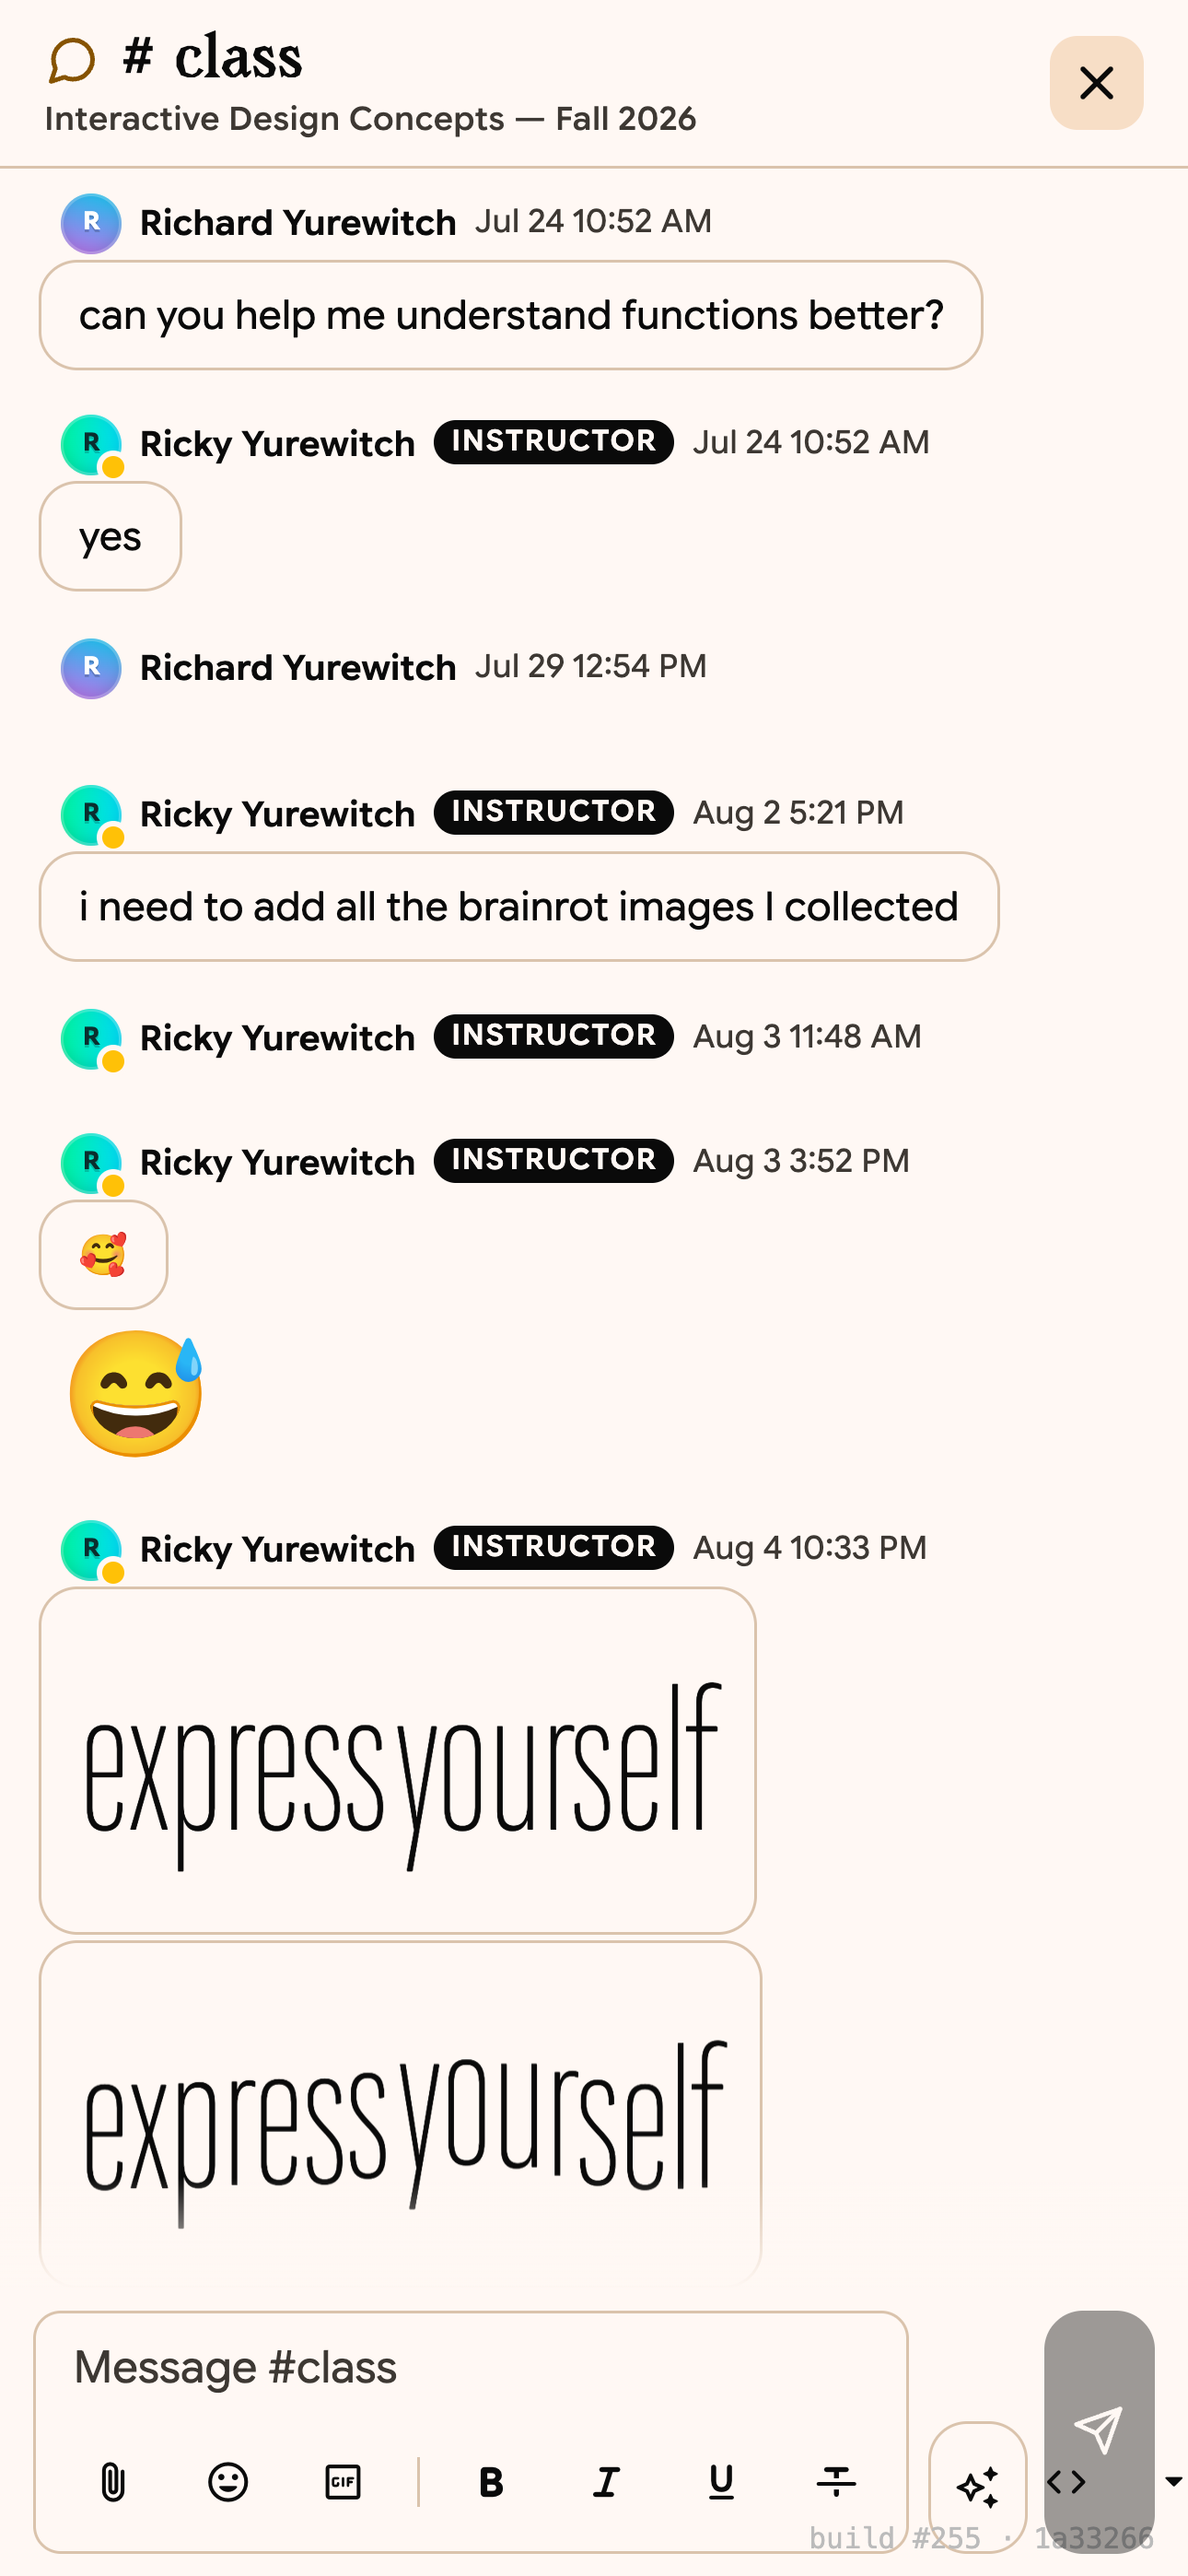
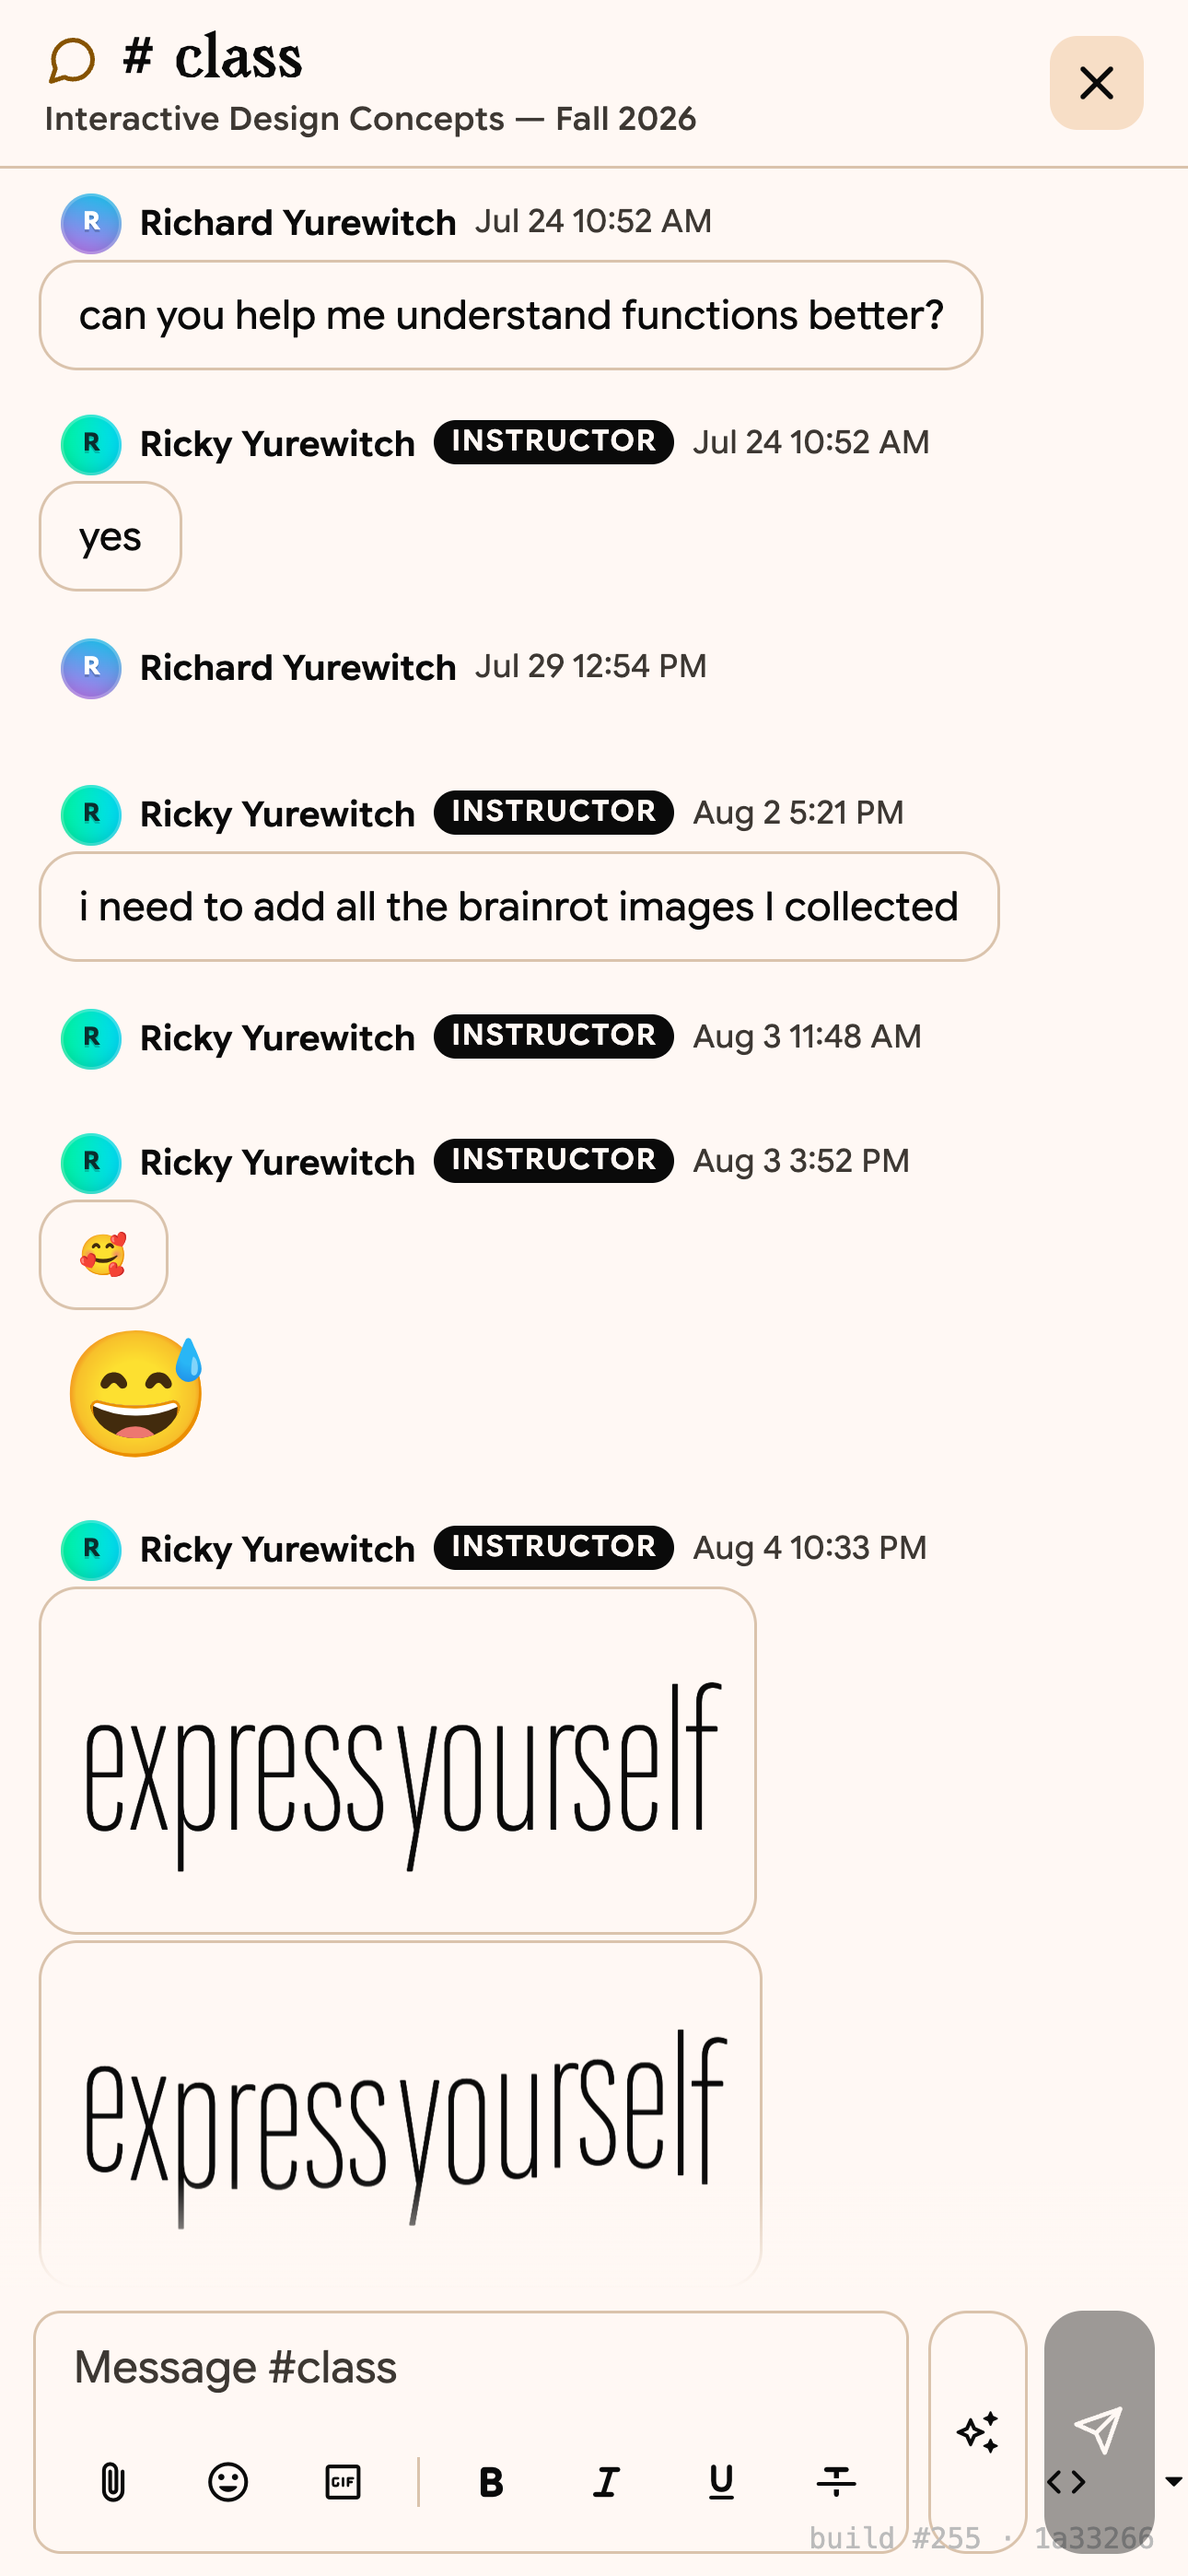
Chat effects button full-height; weeks hero spans ~95vw on mobile
- Chat compose (channel + DM): the message-effects (✨) button now stretches
  to the full compose-bar height, matching the send button
  (compose-effect-wrap align-self:stretch, btn-effect height:100%).
- Weeks: the "Where you are" hero was shrink-wrapping to ~64vw and rendering
  as a narrow centered card. Force width:100% + box-sizing on mobile and
  tighten page padding to 0.7rem so hero + lists span ~95vw.

diff --git a/src/routes/app/weeks/+page.svelte b/src/routes/app/weeks/+page.svelte
@@ -716,7 +716,8 @@
 	/* ── Responsive ───────────────────────────── */
 	@media (max-width: 800px) {
 		.weeks-page {
-			padding: calc(0.75rem + var(--header-h, 52px)) 1rem;
+			/* ~0.7rem side padding → the content spans roughly 95vw on a phone. */
+			padding: calc(0.75rem + var(--header-h, 52px)) 0.7rem;
 			padding-bottom: calc(56px + env(safe-area-inset-bottom, 0px) + 1.25rem);
 		}
 		/* Redundant on a phone — the header already says "Weeks" and the bottom
@@ -727,11 +728,16 @@
 		   rail pinned to the far-right edge and the button floated absolutely
 		   at the bottom, which left an awkward gap and read wonky.) */
 		.hero {
+			/* Fill the page width (~95vw) instead of shrink-wrapping to the CTA
+			   button — it was rendering as a narrow ~64vw centered card. */
+			width: 100%;
+			box-sizing: border-box;
 			padding: 1.4rem 1.4rem;
 			border-radius: 18px;
 			gap: 1.2rem;
 			margin-bottom: 1.25rem;
 		}
+		.cols { width: 100%; box-sizing: border-box; }
 		.cols { margin-top: 0; }
 		.hero-week-num { font-size: 3.4rem; }
 		.hero-now-link { margin-top: 0.25rem; align-self: flex-start; }

diff --git a/src/routes/app/chat/channel/[channelId]/+page.svelte b/src/routes/app/chat/channel/[channelId]/+page.svelte
@@ -5685,10 +5685,13 @@
 	:global(.code-lang .code-lang-icon) { width: 15px; height: 15px; display: block; margin-top: -2.5px; }
 
 	/* Effects button */
-	.compose-effect-wrap { position: relative; flex-shrink: 0; }
+	/* Stretch to the full height of the compose bar (input-bar is
+	   align-items:flex-end) so it stands as tall as the message box, matching
+	   the send button. */
+	.compose-effect-wrap { position: relative; flex-shrink: 0; align-self: stretch; }
 	.btn-effect {
 		display: flex; align-items: center; justify-content: center;
-		width: 36px; height: 36px; font-size: 1rem; line-height: 1;
+		width: 36px; height: 100%; font-size: 1rem; line-height: 1;
 		border: 1.5px solid var(--border); border-radius: 10px;
 		background: var(--paper); color: var(--ink); cursor: pointer;
 		transition: border-color 0.15s, background 0.15s;

diff --git a/src/routes/app/chat/dm/[convId]/+page.svelte b/src/routes/app/chat/dm/[convId]/+page.svelte
@@ -5387,10 +5387,12 @@
 	:global(.code-lang .code-lang-icon) { width: 15px; height: 15px; display: block; margin-top: -2.5px; }
 
 	/* Effects button */
-	.compose-effect-wrap { position: relative; flex-shrink: 0; }
+	/* Stretch to the full compose-bar height (input-bar is align-items:flex-end)
+	   so it matches the message box and the send button. */
+	.compose-effect-wrap { position: relative; flex-shrink: 0; align-self: stretch; }
 	.btn-effect {
 		display: flex; align-items: center; justify-content: center;
-		width: 36px; height: 36px; font-size: 1rem; line-height: 1;
+		width: 36px; height: 100%; font-size: 1rem; line-height: 1;
 		border: 1.5px solid var(--border); border-radius: 10px;
 		background: var(--paper); color: var(--ink); cursor: pointer;
 		transition: border-color 0.15s, background 0.15s;
